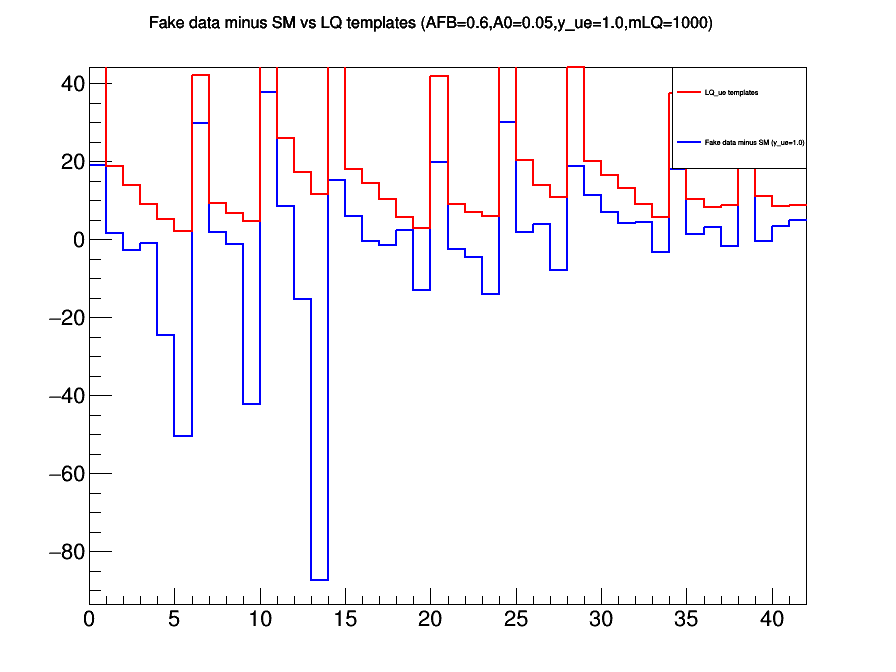
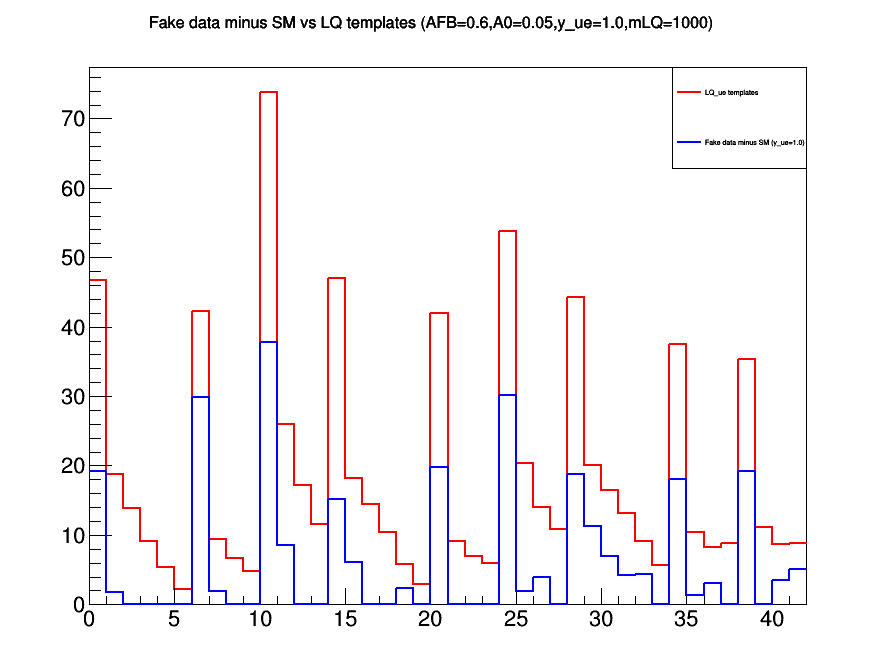
postfits+LQtemp diffs

diff --git a/analyze/combine/LQ_make_gen_templates.C b/analyze/combine/LQ_make_gen_templates.C
@@ -255,9 +255,9 @@ void LQ_make_gen_templates(){
         h1_LQpure_u->SetLineColor(kRed);
         h1_data->SetLineWidth(2);
         h1_LQpure_u->SetLineWidth(2); 
-        h1_data->SetTitle("Fake data minus SM vs LQ templates (AFB=0.6,A0=0.05,y_ue=1.0,mLQ=1000)");
-        h1_data->Draw("hist");
-        h1_LQpure_u->Draw("hist same ");
+        h1_LQpure_u->SetTitle("Fake data minus SM vs LQ templates (AFB=0.6,A0=0.05,y_ue=1.0,mLQ=1000)");
+        h1_LQpure_u->Draw("hist");
+        h1_data->Draw("hist same ");
         TLegend *leg2 = new TLegend(0.75, 0.75, 0.9, 0.9);
         leg2->AddEntry(h1_LQpure_u, "LQ_ue templates", "l");
         leg2->AddEntry(h1_data, "Fake data minus SM (y_ue=1.0)", "l");
